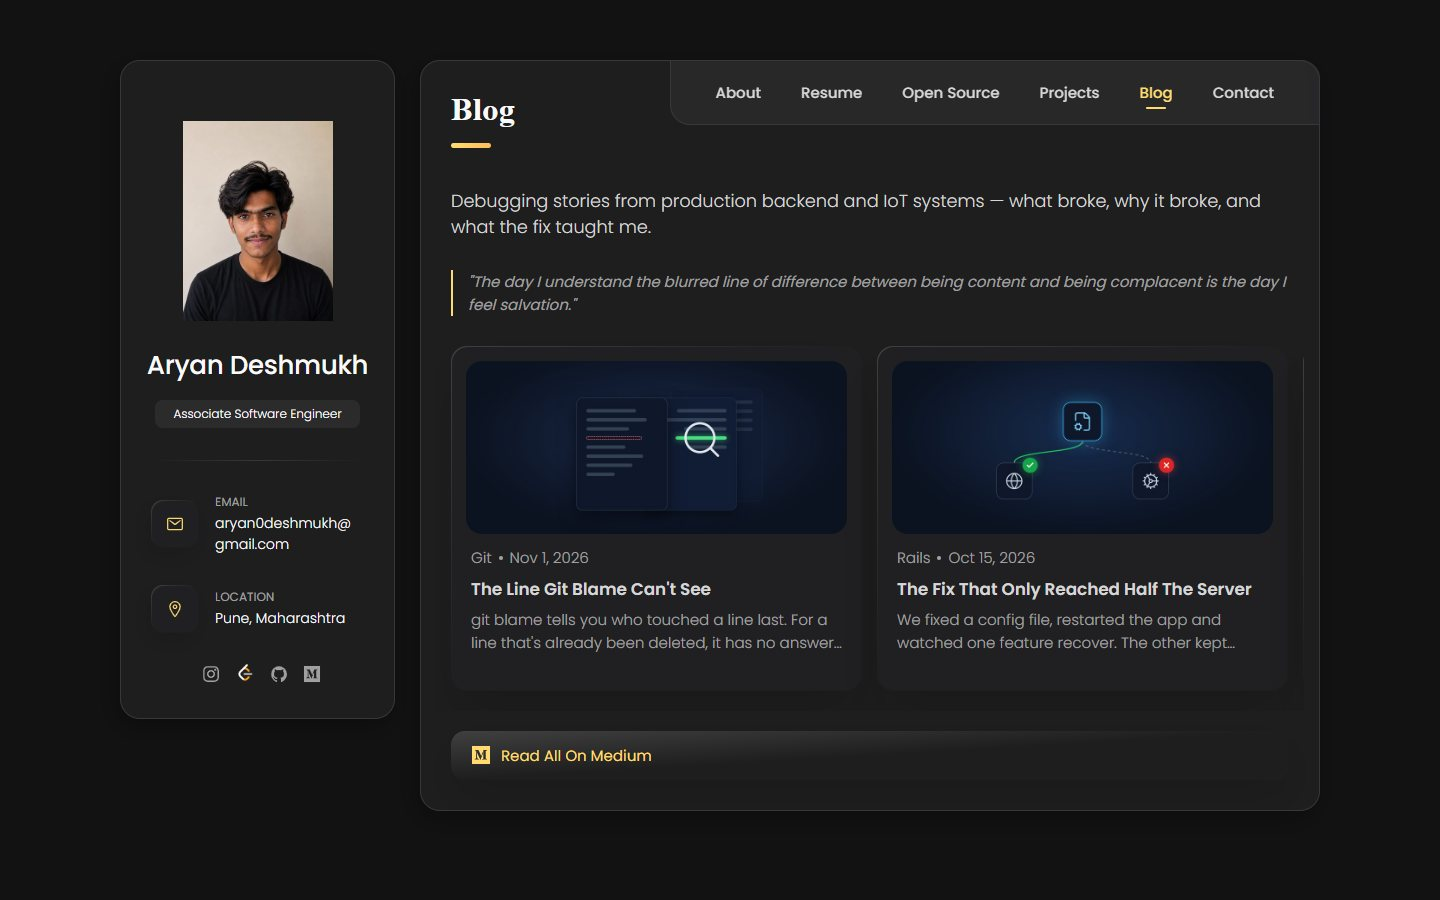
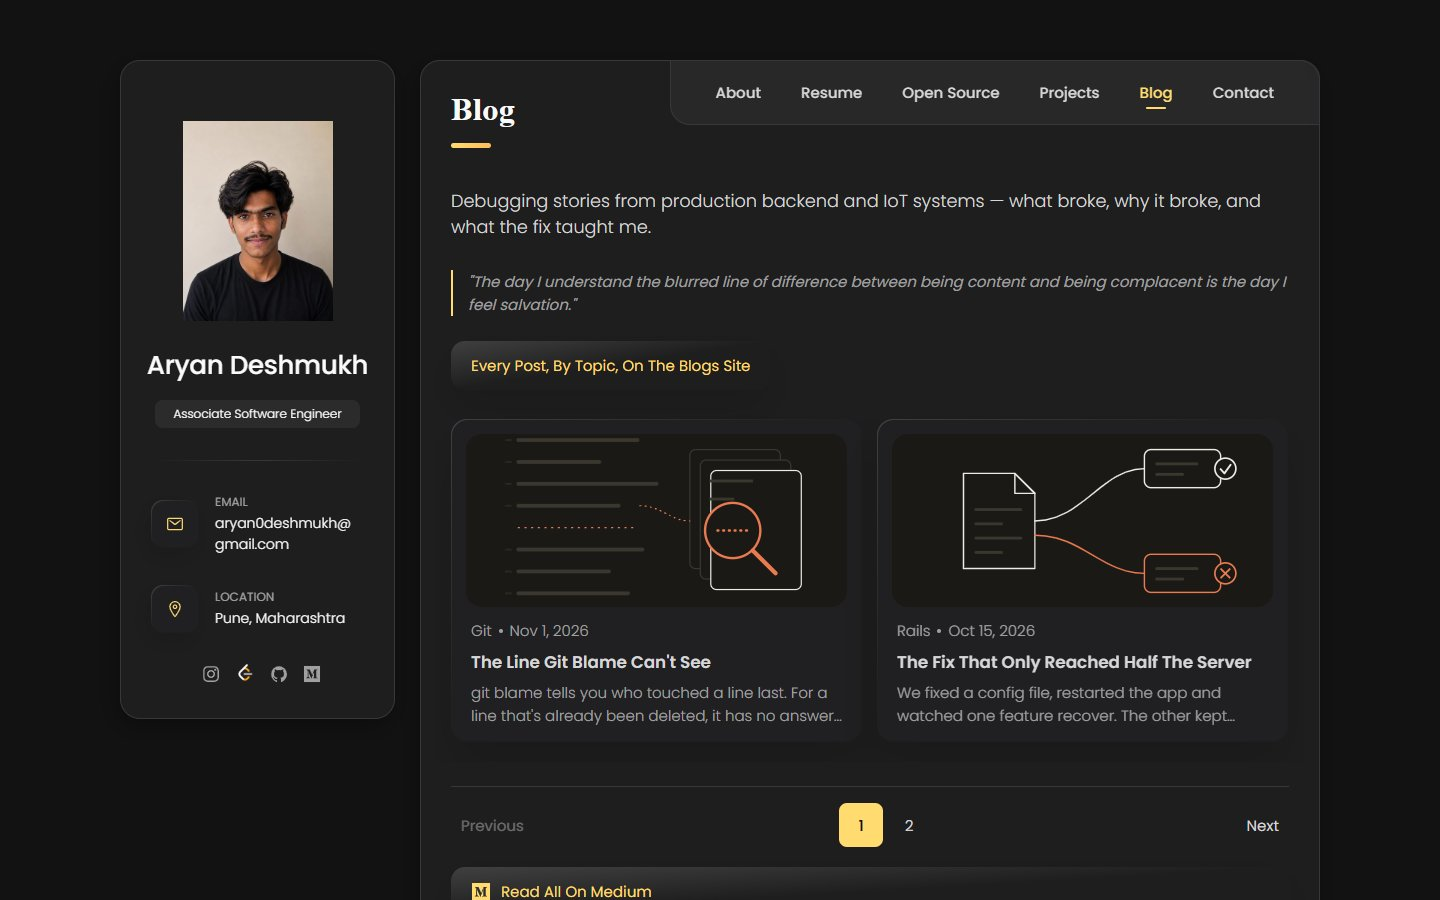
docs: README for Ask about my work and the Projects grid, new screenshots, measured result and limits (#18)

diff --git a/README.md b/README.md
@@ -36,7 +36,7 @@
   </a>
 </p>
 
-<p align="center"><sub>Last updated: 2026-11-07 &middot; Live on a free tier (GitHub Pages)</sub></p>
+<p align="center"><sub>Last updated: 2026-11-10 &middot; Live on a free tier (GitHub Pages)</sub></p>
 
 ---
 
@@ -66,11 +66,12 @@ Open **https://a-ryan-1.github.io/Portfolio-Website/**. No login, nothing to ins
 
 Things to try in the first two minutes:
 
-1. Open **Open Source**: the line at the top counts merged pull requests, projects and combined stars, and the six newest merges below it are filled in from the [open-source site](https://a-ryan-1.github.io/oss/) when the page loads.
-2. On **Projects**, type `go` or `react` in the search box: the cards narrow as you type. Each card's link opens the project's case study on the [projects site](https://a-ryan-1.github.io/builds/).
-3. Open **Resume**: the current PDF is embedded as a preview and can be downloaded.
-4. Open **Blog**: the engineering posts, each card linking to the Medium story.
-5. Resize the window or open it on a phone: the sidebar collapses into a header and the grids reflow.
+1. On **About**, scroll to **Ask about my work** and click a suggested question: the answer is quoted from the site's own cards, with links. Ask something the site does not say (a favourite food) and you get a refusal, not a guess.
+2. Open **Open Source**: the line at the top counts merged pull requests, projects and combined stars, and the six newest merges below it are filled in from the [open-source site](https://a-ryan-1.github.io/oss/) when the page loads.
+3. On **Projects**, type `go` or `react` in the search box: the cards narrow as you type. Each card's link opens the project's case study on the [projects site](https://a-ryan-1.github.io/builds/).
+4. Open **Resume**: the current PDF is embedded as a preview and can be downloaded.
+5. Open **Blog**: the engineering posts, each card linking to the Medium story.
+6. Resize the window or open it on a phone: the sidebar collapses into a header and the grids reflow.
 
 <table>
   <tr>
@@ -83,11 +84,15 @@ Things to try in the first two minutes:
   </tr>
 </table>
 
+<p align="center"><img src="docs/images/ask.jpg" width="60%" alt="The Ask about my work box on the About tab, answering what he has built in Go with three quoted cards"></p>
+
+<p align="center"><sub>Ask about my work: the question is matched against the site's own cards and the best ones are quoted (<a href="#engineering-quality">measured</a>)</sub></p>
+
 <p align="center"><img src="docs/images/mobile.jpg" width="26%" alt="The About tab on a phone-sized screen: the profile card collapses into a header"></p>
 
 <p align="center"><sub>On a phone the sidebar collapses into a header and the grids reflow (<a href="#engineering-quality">measured</a>)</sub></p>
 
-Screenshots are of the live site, taken 2026-11-07 at 1440x900 (phone: 390x844 at 2x).
+Screenshots are of the live site, taken 2026-11-10 at 1440x900 (phone: 390x844 at 2x).
 
 ## Features
 
@@ -95,7 +100,8 @@ Screenshots are of the live site, taken 2026-11-07 at 1440x900 (phone: 390x844 a
 - **Search on the Projects tab**: type a name, language or topic; every word must match, and it combines with the category filter.
 - **Filterable project grid**: All, Web Development, App Development, Others; a dropdown replaces the buttons on small screens.
 - **Open Source tab**: a proof line and every merged pull request, six per page, newest first, filled in the browser from https://a-ryan-1.github.io/oss/summary.json by `assets/js/site-highlights.js`. The page is kept in the URL (`?oss=2#open-source`) so a page can be linked and Back works; the full list is on that site, which rebuilds itself from GitHub every six hours.
-- **Projects tab**: the cards and their pictures are curated here (`assets/images/project-*`); each card's link is pointed at the case study on https://a-ryan-1.github.io/builds/ (from that site's `summary.json`).
+- **Projects tab**: the cards are aligned in one grid, a card without a picture gets a generic one, and each card's link is pointed at the case study on https://a-ryan-1.github.io/builds/ (from that site's `summary.json`).
+- **Ask about my work** (About tab): a question box that matches the question against the site's 43 cards (About text, projects, posts, open-source repositories) with BM25 and shows the best three, quoted and linked. There is no language model, so nothing outside the site can appear; a question the site cannot answer gets a refusal. The index is built in the browser on the first question from the page and the three `summary.json` files, in `assets/js/site-chat-core.js` and `assets/js/site-chat.js`.
 - **Resume tab**: the current resume PDF, previewed and downloadable, plus a download link on the Contact tab.
 - **Blog tab**: a card per published post, linking to Medium.
 - **Responsive layout**: profile sidebar on desktop, collapsible on mobile.
@@ -170,9 +176,12 @@ assets/
   js/project-filter.js     the search and category matching rule (unit tested)
   js/site-highlights.js    fills the paginated Open Source tab and project links from the sister sites (unit tested)
   js/tab-hash.js           tab addresses such as #open-source (unit tested)
+  js/site-chat-core.js     card index, BM25 ranking and refusal rule for Ask about my work (unit tested)
+  js/site-chat.js          the question box on the About tab
   images/                  photo, project, blog and open-source images, icons
   Aryan_Deshmukh_Resume.pdf   the current resume, shown in the Resume tab
-tests/                     Node tests for the three scripts above
+tests/                     Node tests for the scripts above
+eval/                      the question sets, runner and results for Ask about my work
 docs/images/               README screenshots only
 .github/workflows/static.yml   deploys to GitHub Pages on push to main
 ```
@@ -183,7 +192,7 @@ docs/images/               README screenshots only
 
 | Area | What is in place |
 |---|---|
-| Tests | Node's built-in runner covers the search rule, the tab addresses and the sister-site data handling: 17 tests, all passing on 2026-11-07 (`node --test tests/*.test.js`); the page itself is checked by hand |
+| Tests | Node's built-in runner covers the search rule, the tab addresses, the sister-site data handling and the question box (index, ranking, refusal, frozen evaluation sets): 39 tests, all passing on 2026-11-10 (`node --test tests/*.test.js`); the page itself is checked by hand |
 | CI | `ci.yml` runs the unit tests on every pull request and push to `main`; `static.yml` deploys on every push to `main` |
 | Security | Static files only: no forms, no server, no cookies, no secrets; external links use `rel="noopener noreferrer"` |
 | Content check | The text is checked against a list of private names before every push, and every claim is traced to a recorded source |
@@ -191,6 +200,8 @@ docs/images/               README screenshots only
 | Lighthouse, live, desktop preset (2026-11-07, after pagination) | Performance 96 (93 earlier that day), Accessibility 96, Best Practices 100, SEO 100 |
 
 On 2026-10-16 the largest-contentful-paint element was the profile photo: a 1.6 MB PNG shown at 80 px wide. Replacing it with a 400 px JPEG (18 KB) lifted live mobile performance from 65 to 81 and desktop from 59 to 98, measured before and after on the live URL the same day. The 2026-11-07 numbers are the next measurement, after the tabs started loading live data and screenshots.
+
+**Ask about my work, measured 2026-11-09** on questions with hand-listed expected cards (`eval/README.md`): on the held-out set of 24 questions (written after tuning and frozen by hash before its first run) the right card was among the three shown for 12 of 16 answerable questions (75.0%) and 6 of 8 out-of-scope questions were refused; 4 answerable questions were wrongly refused. The tuned sets score higher (21 of 22 and 19 of 19 answerable) and are not the honest number. Live check 2026-11-10: "What has he built in Go?" returned event-order, Smart Rule-Based Approval Engine and Backend Engineering, and a question about a favourite pizza topping was refused.
 
 Run the same measurement:
 
@@ -251,11 +262,12 @@ The resume PDF and its preview image on the Resume tab are replaced by a script 
 
 ## Status and roadmap
 
-**Reached:** live on a free tier. URL opens and every tab, the project filter and the live Open Source tab work (checked 2026-11-07); Lighthouse re-measured on 2026-11-07.
+**Reached:** live on a free tier. URL opens and every tab, the project filter, the live Open Source tab and the Ask about my work box work (checked 2026-11-10); Lighthouse last measured on 2026-11-07, before the question box and the Projects card changes.
 
 **Known limitations**
 
-- Only three scripts have automated tests (17 tests), and there is no lint step; the markup is checked by hand.
+- Four scripts have automated tests (39 tests), and there is no lint step; the markup is checked by hand.
+- Ask about my work is keyword matching, not understanding: on the held-out set it wrongly refused 4 of 16 answerable questions and answered 2 of 8 out-of-scope ones, mostly where the question uses words the site never uses. It only knows what the cards say, and needs the three sister sites reachable for the open-source, project and blog cards.
 - The Open Source tab and the project pictures need the oss and builds sites to be reachable; without them the page shows its static text and the link.
 - Accessibility is 96, not 100: Lighthouse flags links inside text that are told apart by colour only.
 - The contact tab is links only (email, GitHub, LinkedIn, Medium); there is no form, on purpose.
@@ -263,6 +275,8 @@ The resume PDF and its preview image on the Resume tab are replaced by a script 
 
 **Planned**
 
+- [ ] Re-measure Lighthouse with the question box and the new Projects grid
+- [ ] Lower the wrong-refusal rate of Ask about my work (4 of 16 on the held-out set) with a fresh held-out set
 - [ ] Fix the colour-only link style flagged by Lighthouse
 - [ ] Self-host the font and icons to drop two third-party requests
 - [ ] Add a link checker to the deploy workflow
